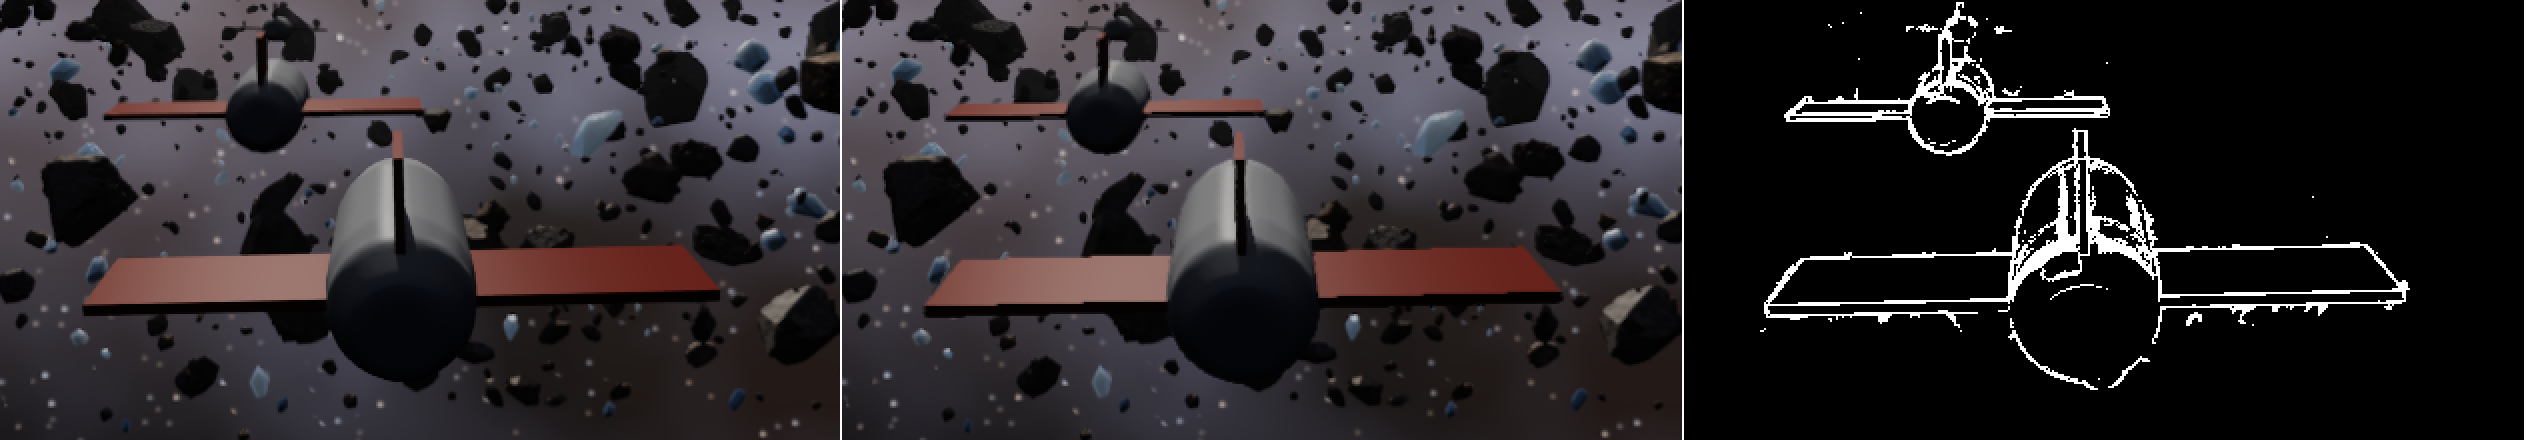
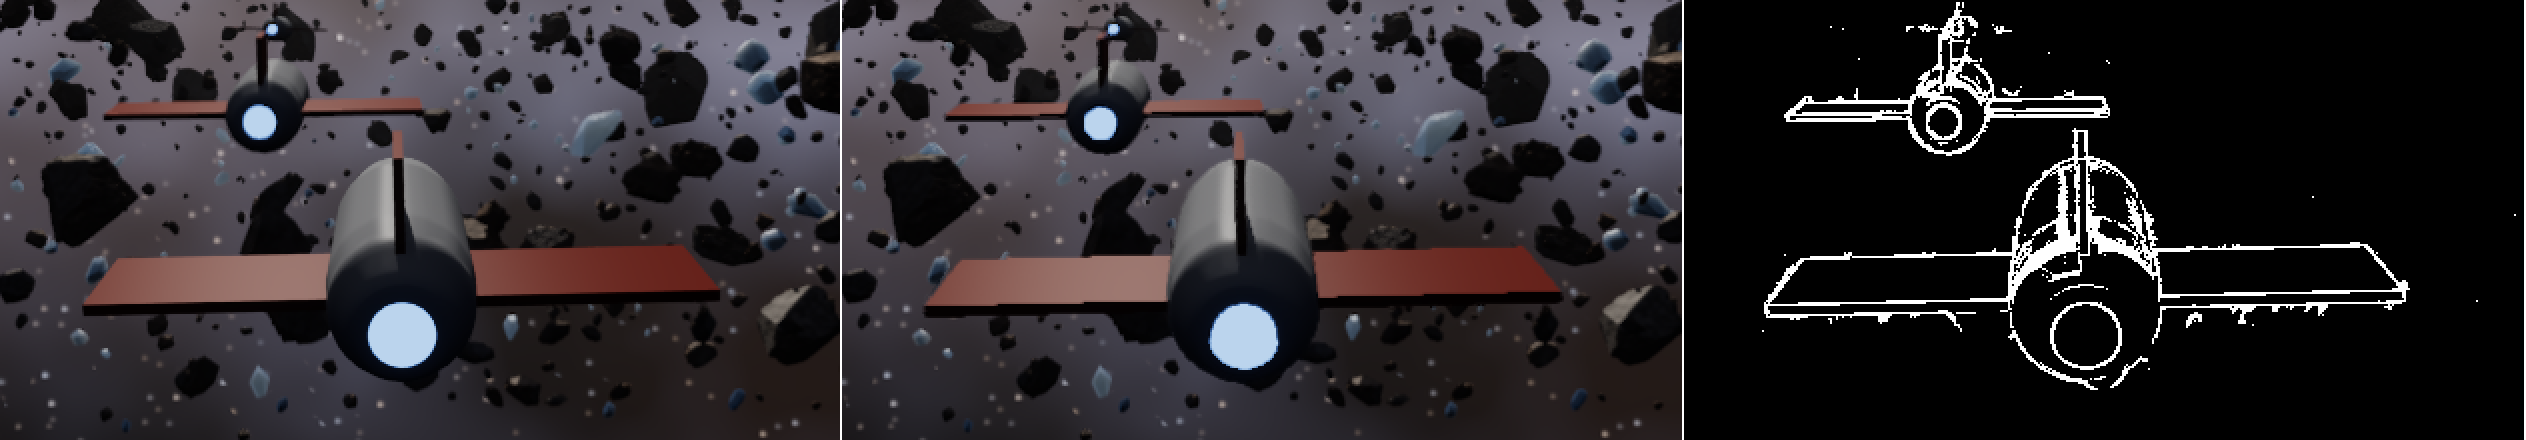
Light the ships' engines; measure a TLAS built to trace fast (#79)
The ships' tail now ends in an engine: the middle of the disc closing the hull, the third
material section, a pale blue glow (the material row's emissive, pre-exposed light) inside a
dark rim, which the bloom takes. The report's ship sheets are retaken with it (the TAA A/B:
5 787 px, FLIP max 0.69, at the engine).

And the A/B the re-verified research asked for: FORGE_TLAS_FAST_TRACE=1 builds the movers'
structure with PREFER_FAST_TRACE, which NVIDIA's 2022 post advises for a TLAS rebuilt every
frame. On the island's barrel and mouth views, 1 000 and 10 000 barrels, two rounds at 1440p:
the build costs the same (+0.007 ms with 10 000), the rays' passes stay within the rounds'
spread and the frame gains nothing, so the fast build stays (docs/PROFILE.md). The dynamic
TLAS now keeps its flags, from FORGE_TLAS_REFIT and FORGE_TLAS_FAST_TRACE.

The capture batch is unchanged; validate.sh is clean, its chased ships included.

diff --git a/crates/forge-gpu/src/accel.rs b/crates/forge-gpu/src/accel.rs
@@ -290,6 +290,8 @@ pub struct DynamicTlas {
     capacity: u32,
     /// `FORGE_TLAS_REFIT=1` (#79's measure): built once, then updated in place.
     pub(crate) refit: bool,
+    /// Its build flags ([`dynamic_tlas_flags`]).
+    pub(crate) flags: vk::BuildAccelerationStructureFlagsKHR,
     /// The instance count of the last full build, which an update must keep.
     pub(crate) built: std::cell::Cell<Option<u32>>,
 }
@@ -333,15 +335,22 @@ impl Drop for DynamicTlas {
     }
 }
 
-/// How a dynamic top-level structure is built and sized: fast to build, and with `refit`
-/// updatable in place (#79's measure of a refit against a rebuild, `FORGE_TLAS_REFIT=1`).
-pub(crate) fn dynamic_tlas_flags(refit: bool) -> vk::BuildAccelerationStructureFlagsKHR {
-    let update = if refit {
-        vk::BuildAccelerationStructureFlagsKHR::ALLOW_UPDATE
+/// How a dynamic top-level structure is built and sized: fast to build, or with `fast_trace`
+/// fast to trace (`FORGE_TLAS_FAST_TRACE=1`, the A/B NVIDIA's advice for a structure rebuilt
+/// every frame asks for); with `refit` updatable in place (#79's measure of a refit against a
+/// rebuild, `FORGE_TLAS_REFIT=1`).
+pub(crate) fn dynamic_tlas_flags(
+    refit: bool,
+    fast_trace: bool,
+) -> vk::BuildAccelerationStructureFlagsKHR {
+    use vk::BuildAccelerationStructureFlagsKHR as F;
+    let update = if refit { F::ALLOW_UPDATE } else { F::empty() };
+    let prefer = if fast_trace {
+        F::PREFER_FAST_TRACE
     } else {
-        vk::BuildAccelerationStructureFlagsKHR::empty()
+        F::PREFER_FAST_BUILD
     };
-    vk::BuildAccelerationStructureFlagsKHR::PREFER_FAST_BUILD | update
+    prefer | update
 }
 
 /// The geometry of a top-level build over the instance records at `records`.
@@ -371,11 +380,13 @@ impl Device {
             category: MemoryCategory::Work,
             name: &format!("{name} records"),
         })?;
-        let refit = std::env::var_os("FORGE_TLAS_REFIT").is_some_and(|v| v != "0");
+        let flag = |name: &str| std::env::var_os(name).is_some_and(|v| v != "0");
+        let refit = flag("FORGE_TLAS_REFIT");
+        let flags = dynamic_tlas_flags(refit, flag("FORGE_TLAS_FAST_TRACE"));
         let geometries = [instance_geometry(records.address())];
         let info = vk::AccelerationStructureBuildGeometryInfoKHR::default()
             .ty(vk::AccelerationStructureTypeKHR::TOP_LEVEL)
-            .flags(dynamic_tlas_flags(refit))
+            .flags(flags)
             .mode(vk::BuildAccelerationStructureModeKHR::BUILD)
             .geometries(&geometries);
         let mut sizes = vk::AccelerationStructureBuildSizesInfoKHR::default();
@@ -423,6 +434,7 @@ impl Device {
             scratch: GraphBuffer::new(scratch),
             capacity,
             refit,
+            flags,
             built: std::cell::Cell::new(None),
         })
     }

diff --git a/demos/asteroids/src/main.rs b/demos/asteroids/src/main.rs
@@ -293,7 +293,7 @@ const SHIP_LENGTH: f32 = 14.0;
 
 /// A ship (#79's demo): a hull of revolution along +Y from its tail, nose at
 /// [`SHIP_LENGTH`], panel lines around it; wings across it (+X) and a fin on top (+Z), the
-/// second material section.
+/// second material section; its tail's disc the engine's glow, the third.
 fn ship_mesh() -> procedural::TriMesh {
     let mut mesh = forge_geom::city::lathe(&forge_geom::city::Lathe {
         profile: vec![
@@ -314,7 +314,18 @@ fn ship_mesh() -> procedural::TriMesh {
         flute_depth: 0.015,
         flute_span: (2.0, 9.0),
     });
-    mesh.sections = vec![0; mesh.triangle_count()];
+    // The hull, but the middle of the disc closing its tail, a dark rim around it: the engine.
+    let in_nozzle = |i: u32| {
+        let [x, y, z] = mesh.positions[i as usize];
+        y < 1e-3 && x * x + z * z < 0.65 * 0.65
+    };
+    mesh.sections = mesh
+        .indices
+        .as_chunks::<3>()
+        .0
+        .iter()
+        .map(|t| u8::from(t.iter().all(|&i| in_nozzle(i))) * 2)
+        .collect();
     // The wings, through the hull, and the fin: flat-shaded boxes, `(min, max)` corners.
     for (min, max) in [
         (Vec3::new(-6.5, 2.0, -0.12), Vec3::new(6.5, 5.5, 0.12)),
@@ -1401,7 +1412,8 @@ fn build_field(ctx: &Context, args: &Args, field: FieldMeshes) -> Result<(Meshle
             )
         })
     };
-    // The ships' hull, and after it their wings' and fin's paint (#79).
+    // The ships' hull, and after it their wings' and fin's paint and their engine's glow, a
+    // hot blue the bloom takes (#79; pre-exposed light, as the shading adds it).
     let hull = ship.as_ref().map(|_| {
         let layer = |color: [f32; 3], power: f32, specular: f32| RenderLayer {
             color_a: color,
@@ -1410,10 +1422,20 @@ fn build_field(ctx: &Context, args: &Args, field: FieldMeshes) -> Result<(Meshle
             specular,
             ..RenderLayer::default()
         };
-        add_with_faces(
+        let hull = add_with_faces(
             Material::new("hull", layer([0.55, 0.56, 0.58], 80.0, 0.3)),
             Material::new("ship paint", layer([0.42, 0.09, 0.06], 40.0, 0.2)),
-        )
+        );
+        // Section 2, the row after the paint (its own faces' row follows, unused).
+        let engine = Material::new(
+            "engine",
+            RenderLayer {
+                emissive: [0.45, 0.95, 2.2],
+                ..layer([0.05, 0.05, 0.06], 20.0, 0.0)
+            },
+        );
+        add_with_faces(engine.clone(), engine);
+        hull
     });
     builder.set_materials(&materials, Some(textures));
     // The field stays still until Phase 3: its structures are built once (issue #45).

diff --git a/crates/forge-gpu/src/commands.rs b/crates/forge-gpu/src/commands.rs
@@ -381,7 +381,7 @@ impl<'a> Commands<'a> {
         };
         let info = vk::AccelerationStructureBuildGeometryInfoKHR::default()
             .ty(vk::AccelerationStructureTypeKHR::TOP_LEVEL)
-            .flags(crate::accel::dynamic_tlas_flags(tlas.refit))
+            .flags(tlas.flags)
             .mode(mode)
             .src_acceleration_structure(source)
             .dst_acceleration_structure(tlas.raw)

diff --git a/docs/demos/asteroids.md b/docs/demos/asteroids.md
@@ -287,7 +287,9 @@ machinery, `docs/demos/island.md`, "Moving geometry"): the instance table's last
 written every frame, with their own motion vectors and acceleration structure.
 - **The ship** (`ship_mesh`): a 14 m hull of revolution with panel lines, wings across it and
   a fin on top, the wings and fin in the material row after the hull's (red paint on light
-  grey metal).
+  grey metal). The middle of the disc closing its tail is the engine, in the row after that:
+  a pale blue glow (`emissive`, pre-exposed light as the shading adds it) inside a dark rim,
+  which the bloom takes.
 - **Their flight** (`Ships::pose`):
   - each has its own speed, a loop in 0.7–1.4 times the camera's, its own start along the
     loop and its own offset from the path, 3–9 m, turning slowly around it;
@@ -299,9 +301,9 @@ written every frame, with their own motion vectors and acceleration structure.
 **Sheets** (`reports/2026-10-02-79/`, frame 240 with the fixed step, 24 ships, `--chase 0`):
 - `ships.png`: the chase. Ship 0 in front, another ahead in the corridor.
 - `ships-taa.png`, cropped and enlarged twice: with the ships' motion vectors, with the
-  camera's alone, and the pixels that changed. The second ghosts the hull's and the wings'
-  edges: the camera follows the ship, so the camera's vectors say its pixels move like the
-  belt behind it. 5 347 pixels differ, ꟻLIP max 0.53.
+  camera's alone, and the pixels that changed. The second ghosts the hull's, the wings' and
+  the engine's edges: the camera follows the ship, so the camera's vectors say its pixels move
+  like the belt behind it. 5 787 pixels differ, ꟻLIP max 0.69 (at the engine).
 
 ![Chasing a ship through the belt](../../reports/2026-10-02-79/ships.png)
 

diff --git a/docs/PROFILE.md b/docs/PROFILE.md
@@ -759,6 +759,17 @@ two rounds of 1 500 frames, 2560 × 1440:
   10 000. So the rebuild stays, as the research and the vendors advise for a TLAS. A refit with
   a rebuild every few hundred frames is the option if the frame ever needs that 0.1 ms.
 
+**Built to trace fast** (`FORGE_TLAS_FAST_TRACE=1`: `PREFER_FAST_TRACE` instead of
+`PREFER_FAST_BUILD`, which NVIDIA's 2022 best-practice post advises for a TLAS rebuilt every
+frame, `docs/research/dynamic-scenes.md`). The same views and rounds:
+- `movers/tlas` is the same: 0.144–0.146 against 0.147–0.150 ms with 1 000 movers, and
+  0.203–0.207 against 0.196–0.200 with 10 000.
+- The reflections and the probes' rays stay within the rounds' spread.
+- The frame gains nothing: from the barrel with 10 000 it is slower (4.10–4.16 → 4.19–4.23 ms),
+  from the mouth the same (3.67–3.73 → 3.66).
+- With 10 000 instances or fewer the choice does not show in the traces on this GPU: the fast
+  build stays, the flag remains for the A/B.
+
 **Ships in the ballad** (#79's demo, `asteroids --ships N`; `docs/demos/asteroids.md`), the
 ballad's flight, two rounds:
 

diff --git a/reports/2026-10-02-79/README.md b/reports/2026-10-02-79/README.md
@@ -43,8 +43,8 @@ unchanged without movers and `validate.sh` is clean with them.
 the camera chasing ship 0:
 - `ships.png`: the chase.
 - `ships-taa.png`, cropped and enlarged twice: with the ships' motion vectors, with the
-  camera's alone (`--no-mover-motion`), the pixels that changed: 5 347; ꟻLIP max 0.53, the
-  hull's and the wings' edges ghosted.
+  camera's alone (`--no-mover-motion`), the pixels that changed: 5 787; ꟻLIP max 0.69, the
+  hull's, the wings' and the engine's edges ghosted.
 - Cost at 2560 × 1440: 2.456–2.463 ms without ships, 2.564–2.567 with 24.
 
 **A refit against a rebuild** (`FORGE_TLAS_REFIT=1`, `docs/PROFILE.md`): `movers/tlas` 0.146 →
